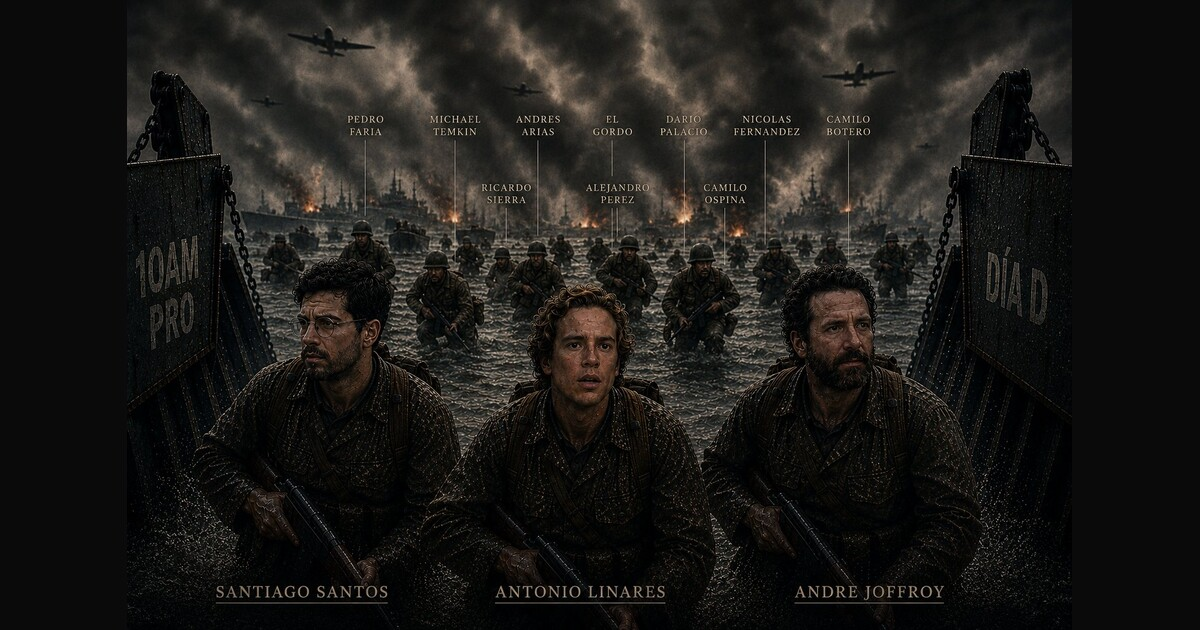
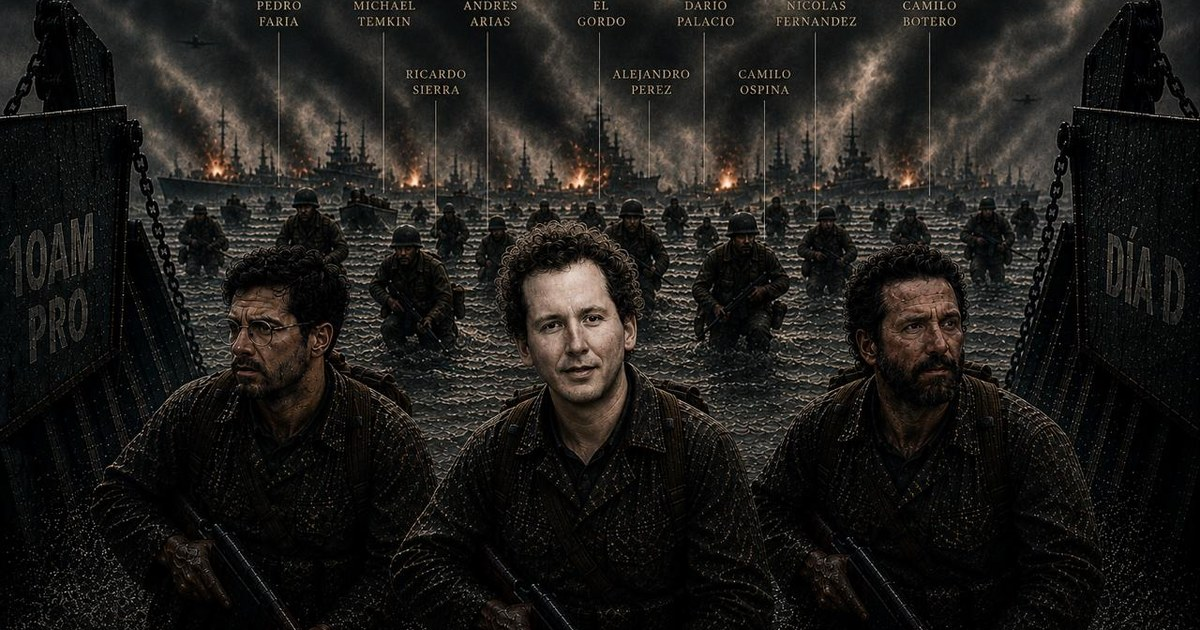
Nuevo poster: Hernán Jaramillo figura central; og.jpg v3

diff --git a/index.html b/index.html
@@ -13,12 +13,12 @@
 <meta name="theme-color" content="#08070a" />
 <meta property="og:title" content="El Día D · 10ampro" />
 <meta property="og:description" content="La invasión del conocimiento llega a Medellín — 14 de octubre, 2026. Santiago Santos, Pedro Faria, Andre Joffroy y el roster completo — más un invitado por anunciar." />
-<meta property="og:image" content="https://eldiad.10am.pro/og.jpg?v=2" />
-<meta property="og:image:secure_url" content="https://eldiad.10am.pro/og.jpg?v=2" />
+<meta property="og:image" content="https://eldiad.10am.pro/og.jpg?v=3" />
+<meta property="og:image:secure_url" content="https://eldiad.10am.pro/og.jpg?v=3" />
 <meta property="og:image:type" content="image/jpeg" />
 <meta property="og:image:width" content="1200" />
 <meta property="og:image:height" content="630" />
-<meta property="og:image:alt" content="El Día D — 10ampro · Santiago Santos · Andre Joffroy y el roster completo" />
+<meta property="og:image:alt" content="El Día D — 10ampro · Santiago Santos · Hernán Jaramillo · Andre Joffroy y el roster completo" />
 <meta property="og:url" content="https://eldiad.10am.pro/" />
 <meta property="og:type" content="website" />
 <meta property="og:site_name" content="10ampro" />
@@ -26,7 +26,7 @@
 <meta name="twitter:card" content="summary_large_image" />
 <meta name="twitter:title" content="El Día D · 10ampro" />
 <meta name="twitter:description" content="La invasión del conocimiento llega a Medellín — 14 de octubre, 2026" />
-<meta name="twitter:image" content="https://eldiad.10am.pro/og.jpg?v=2" />
+<meta name="twitter:image" content="https://eldiad.10am.pro/og.jpg?v=3" />
 <meta name="twitter:image:alt" content="El Día D — 10ampro" />
 <link rel="preload" as="image" href="/dday-roster.png" />
 <link rel="preconnect" href="https://fonts.googleapis.com" />
@@ -510,7 +510,7 @@ src="https://www.facebook.com/tr?id=27858108270474533&ev=PageView&noscript=1"
 <!-- ===== CINEMATIC HERO ===== -->
 <section class="cinema" aria-label="El Día D — La invasión del conocimiento">
   <div class="bg-blur" aria-hidden="true"></div>
-  <div class="stage" role="img" aria-label="El Día D · Santiago Santos · Andre Joffroy y el roster completo de 10ampro"></div>
+  <div class="stage" role="img" aria-label="El Día D · Santiago Santos · Hernán Jaramillo · Andre Joffroy y el roster completo de 10ampro"></div>
   <div class="vignette"></div>
   <div class="hud">
     <span class="brand">10ampro</span>
